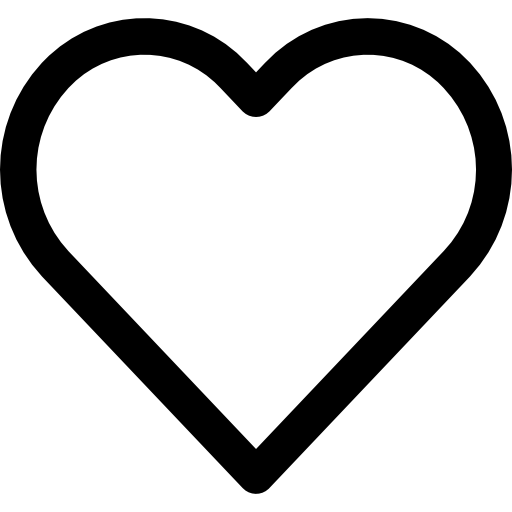
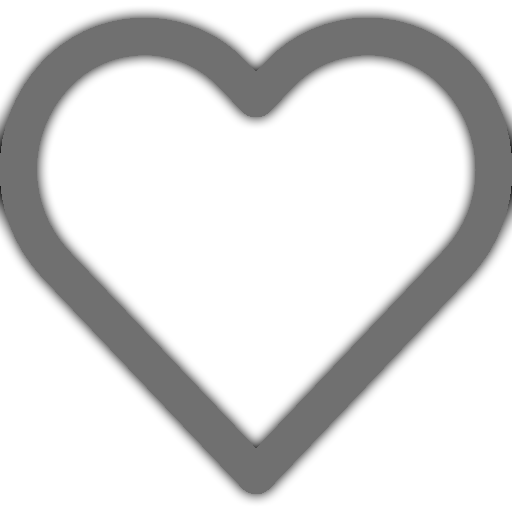
changed css to dark mode

Changed region(s): [[0.0, 0.0, 1.0, 1.0]]

diff --git a/static/css/style.css b/static/css/style.css
@@ -6,6 +6,7 @@ html, body{
     padding: 0;
     margin: 0;
     font-family: Helvetica;
+    background-color: black;
 }
 
 /*
@@ -24,25 +25,34 @@ Post
     position: absolute;
     top: 40px;
     right: 15px;
-    border: 1px solid lightgray;
-    padding: 10px 15px;
-    font-size: 13px;
-    border-radius: 3px;
-    cursor: pointer;
-    box-shadow: 0px 0px 4px rgb(175, 175, 175);
+    font-size: 0px;
     text-decoration: none;
     color: black;
 }
 
 .posts li a{
     text-decoration: none;
-    color: black;
+    border: 1px solid lightgray;
+    color: white;
+    padding: 5px 10px;
+    width: 100%;
+    box-shadow: 0px 0px 4px rgb(255, 255, 255);
+    font-size: 13px;
+    background-color: black;
 }
 
-.posts li .menu:hover{
+a{
+    display: grid;
+    height: 20px;
+    width: 50px;
+    place-items: center;
+}
+
+
+.posts li .menu a:hover{
     text-decoration: none;
-    background-color: lightgrey;
-    transition-duration: 0.2s;
+    background-color: #2c2c2c;
+    transition-duration: 0.3s;
 }
 .posts li{
     display: flex;  
@@ -62,7 +72,10 @@ Post
 }
 
 .container{
-    border-top: 1px solid #ccc;
+    border-top: 1px solid #707070;
+    border-bottom: 1px solid #707070;
+    color: white;
+
 }
 
 .posts li .name_body .name {
@@ -85,6 +98,7 @@ ul{
 
 .post_form{
     padding: 10px;
+    border-bottom: 1px solid #707070;
 }
 
 .post_form .name{
@@ -93,11 +107,29 @@ ul{
     padding-bottom: 10px;
     border: none;
     font-family: Helvetica;
-    background: lightgray;
-    color: black;
+    background: black;
+    color: white;
     border: 0px;
     text-align: inherit;
     outline: none;
+}
+
+input::placeholder{
+    color: white;
+    transition: color 0.3s ease;
+}
+
+input:focus::placeholder{
+    color:transparent
+}
+
+textarea::placeholder{
+    color: #707070;
+    transition: color 0.3s ease;
+}
+
+textarea:focus::placeholder{
+    color:transparent
 }
 
 .post_form textarea{
@@ -107,8 +139,24 @@ ul{
     font-family: Helvetica;
     height: 100px;
     font-size: 20px;
-    color:black;
+    color:white;
     outline: none;
+    background-color: black;
+    border-top: 1px solid#707070;
+}
+
+.body{
+    width: 100%;
+    padding-top: 10px;
+    border: none;
+    font-family: Helvetica;
+    height: 100px;
+    font-size: 20px;
+    color:white;
+    outline: none;
+    background-color: black;
+    border-top: 1px solid#707070;
+    overflow-wrap: break-word;
 }
 
 
@@ -138,14 +186,16 @@ ul{
     max-width: 600px;
     height: 100%;
     margin: 0 auto;
-    border-left: 1px solid #ccc;
-    border-right: 1px solid #ccc;
+    border-left: 1px solid #707070;
+    border-right: 1px solid #707070;
 }
 
 h1{
     padding: 20px 20px;
     margin: 0;
-    border-bottom: 1px solid #ccc;
+    border-bottom: 1px solid #707070;
+    color: white;
+    font-family: Helvetica;
 }
 
 form{
@@ -157,7 +207,7 @@ form{
 .bottom{
     display: flex;
     padding-top: 20px;
-    border-top: 1px solid #ccc;
+    border-top: 1px solid #707070;
     padding-bottom: 40px;
 }
 
@@ -191,12 +241,13 @@ label{
     margin: auto;
     justify-content: center;
     align-items: center;
-    background-color: black;
+    background-color: rgb(29, 161, 242);
     font-family: Helvetica;
     font-size: 15px;
     display: flex;
-    box-shadow: 0px 0px 4px black;
+    box-shadow: 0px 0px 4px #707070;
     cursor: pointer;
+    border-radius: ;
 }
 
 .image{
@@ -218,7 +269,7 @@ label{
 }
 
 #like_button{
-    background-color: white;
+    background-color: black;
     border: none;
     cursor: pointer;
     align-items: center;

diff --git a/templates/posts.html b/templates/posts.html
@@ -43,8 +43,8 @@
                    <img class="menu_icon js-menu-icon circle"  src="{% static 'img/menu.png' %}">
 
                    <div class="menu">
-                     <a href="/delete/{{ post.id }}/">Delete</a><br><br>
-                     <a href="/edit/{{ post.id }}/">Edit</a>  
+                          <a href="/delete/{{ post.id }}/">Delete</a><br><br> 
+                          <a href="/edit/{{ post.id }}/">Edit</a>    
                    </div>
                          </a> 
                  </div>

diff --git a/templates/edit.html b/templates/edit.html
@@ -19,7 +19,7 @@
             padding: 5px;
             width: 95%;
         "> 
-            <input name="body" value="{{ post.body }}" required/>
+            <input class="body" name="body" value="{{ post.body }}" required/>
             <img class="image" src="{{ post.image.url }}">
             <div class="bottom">
                 <button class="red submit" type="submit">Cancel</button>
